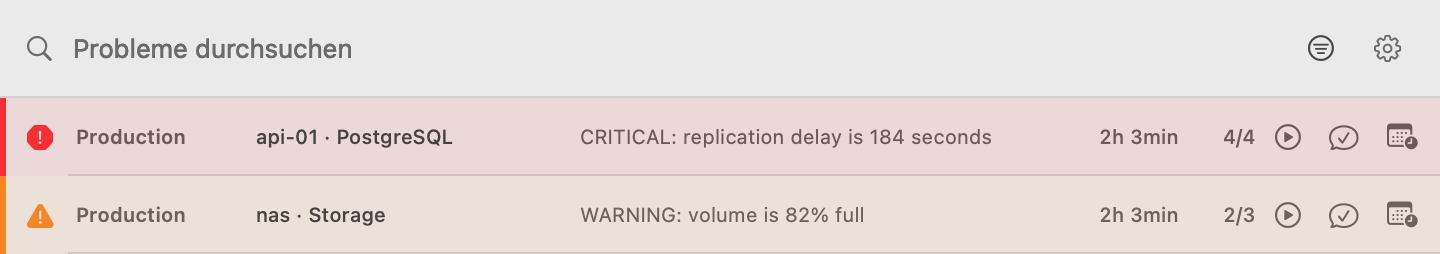
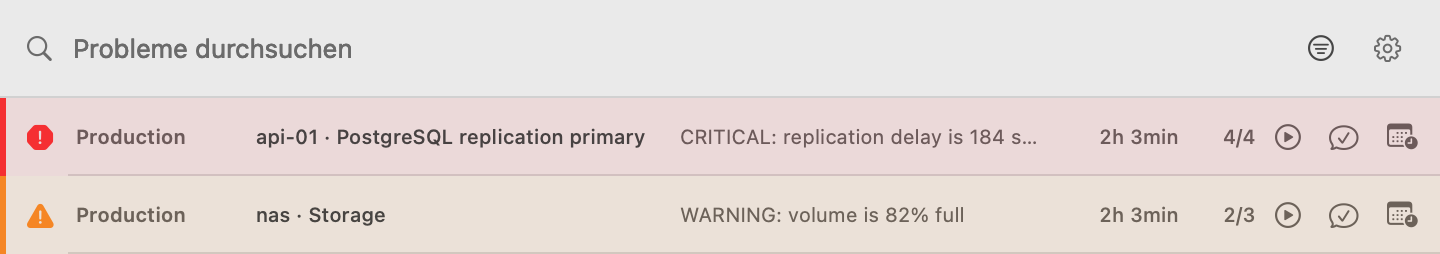
fix: refine SSH settings interactions

Changed region(s): [[0.3125, 0.4961, 0.7188, 0.5787], [0.4062, 0.7992, 0.6875, 0.8819]]

diff --git a/IssueLight/Sources/SourceSetupView.swift b/IssueLight/Sources/SourceSetupView.swift
@@ -287,22 +287,32 @@ struct SourceSetupView: View {
                         Text("Web-URL")
                     }
 
-                    DisclosureGroup("SSH", isExpanded: $isShowingSSHOverrides) {
+                    SSHSettingsDisclosureRow(isExpanded: $isShowingSSHOverrides)
+                    if isShowingSSHOverrides {
                         TextField(
                             "Bastion",
                             text: $model.sshTunnelHost,
                             prompt: Text(verbatim: automaticSSHHost)
                         )
-                        TextField("Benutzername", text: $model.sshTunnelUsername)
+                        TextField(
+                            "Benutzername",
+                            text: $model.sshTunnelUsername,
+                            prompt: Text(verbatim: "OpenSSH")
+                        )
                             .textContentType(.username)
                         TextField("SSH-Port", text: $model.sshTunnelPort, prompt: Text(verbatim: "22"))
                         TextField(
                             "Bevorzugter lokaler Port",
-                            text: $model.sshTunnelPreferredLocalPort
+                            text: $model.sshTunnelPreferredLocalPort,
+                            prompt: Text(verbatim: "macOS")
                         )
                         LabeledContent("SSH-Schlüssel") {
                             HStack(spacing: 8) {
-                                if !model.sshTunnelIdentityFilePath.isEmpty {
+                                if model.sshTunnelIdentityFilePath.isEmpty {
+                                    Text(verbatim: "~/.ssh/config / SSH agent")
+                                        .foregroundStyle(.tertiary)
+                                        .lineLimit(1)
+                                } else {
                                     Text(URL(fileURLWithPath: model.sshTunnelIdentityFilePath).lastPathComponent)
                                         .foregroundStyle(.secondary)
                                         .lineLimit(1)
@@ -330,18 +340,22 @@ struct SourceSetupView: View {
                         }
                     }
 
-                    Toggle("Host im Terminal öffnen", isOn: $model.sshActionEnabled)
+                    Toggle("SSH für überwachten Host", isOn: $model.sshActionEnabled)
                     if model.sshActionEnabled {
-                        TextField("SSH-Benutzername", text: $model.sshUsername)
+                        TextField(
+                            "SSH-Benutzername",
+                            text: $model.sshUsername,
+                            prompt: Text(verbatim: "OpenSSH")
+                        )
                             .textContentType(.username)
-                        TextField("SSH-Port", value: $model.sshPort, format: .number)
+                        PortNumberField("SSH-Port", value: $model.sshPort)
                     }
 
-                    Toggle("Host über RDP öffnen", isOn: $model.rdpActionEnabled)
+                    Toggle("RDP für überwachten Host", isOn: $model.rdpActionEnabled)
                     if model.rdpActionEnabled {
                         TextField("RDP-Benutzername", text: $model.rdpUsername)
                             .textContentType(.username)
-                        TextField("RDP-Port", value: $model.rdpPort, format: .number)
+                        PortNumberField("RDP-Port", value: $model.rdpPort)
                     }
                 } header: {
                     Text("Navigation & Fernzugriff")
@@ -570,6 +584,51 @@ private struct SourceRow: View {
         case .failed(let message):
             return AppLocalization.string("Aktualisierung fehlgeschlagen, \(message)", locale: locale)
         }
+    }
+}
+
+struct SSHSettingsDisclosureRow: View {
+    @Binding var isExpanded: Bool
+
+    var body: some View {
+        Button {
+            isExpanded.toggle()
+        } label: {
+            HStack(spacing: 7) {
+                Image(systemName: "chevron.right")
+                    .font(.caption.weight(.semibold))
+                    .rotationEffect(.degrees(isExpanded ? 90 : 0))
+                    .accessibilityHidden(true)
+                Text(verbatim: "SSH")
+                Spacer()
+                Text(verbatim: "API · Web")
+                    .foregroundStyle(.secondary)
+            }
+            .frame(maxWidth: .infinity, minHeight: 28, alignment: .leading)
+            .contentShape(Rectangle())
+        }
+        .buttonStyle(.plain)
+        .accessibilityLabel(Text(verbatim: "SSH, API, Web"))
+        .accessibilityAddTraits(isExpanded ? .isSelected : [])
+        .accessibilityIdentifier("ssh-settings-disclosure")
+    }
+}
+
+struct PortNumberField: View {
+    static var format: IntegerFormatStyle<Int> {
+        .number.grouping(.never)
+    }
+
+    let title: LocalizedStringKey
+    @Binding var value: Int
+
+    init(_ title: LocalizedStringKey, value: Binding<Int>) {
+        self.title = title
+        _value = value
+    }
+
+    var body: some View {
+        TextField(title, value: $value, format: Self.format)
     }
 }
 

diff --git a/IssueLight/Tests/StatusMenuInteractionTests.swift b/IssueLight/Tests/StatusMenuInteractionTests.swift
@@ -4,6 +4,37 @@ import XCTest
 
 @MainActor
 final class StatusMenuInteractionTests: XCTestCase {
+    func testSSHSettingsDisclosureRespondsAcrossTheEntireRow() {
+        var isExpanded = false
+        let view = SSHSettingsDisclosureRow(
+            isExpanded: Binding(
+                get: { isExpanded },
+                set: { isExpanded = $0 }
+            )
+        )
+        .environment(\.locale, Locale(identifier: "de_DE"))
+        .environment(\.colorScheme, .light)
+
+        NativeViewRenderer.click(
+            CGPoint(x: 496, y: 14),
+            in: view,
+            size: CGSize(width: 500, height: 28)
+        )
+
+        XCTAssertTrue(isExpanded)
+    }
+
+    func testPortNumberFormatNeverAddsLocaleGrouping() {
+        XCTAssertEqual(
+            PortNumberField.format.locale(Locale(identifier: "de_DE")).format(3_389),
+            "3389"
+        )
+        XCTAssertEqual(
+            PortNumberField.format.locale(Locale(identifier: "sv_SE")).format(22_222),
+            "22222"
+        )
+    }
+
     func testSettingsButtonRespondsToPointerClick() {
         var openedSettings = false
         let view = StatusMenuContent(

diff --git a/IssueLight/Tests/LandingPageScreenshotTests.swift b/IssueLight/Tests/LandingPageScreenshotTests.swift
@@ -81,10 +81,6 @@ final class LandingPageScreenshotTests: XCTestCase {
             to: outputDirectory.appendingPathComponent("menu-panel-ar.png"),
             options: .atomic
         )
-        try sourceFailureMenuData.write(
-            to: outputDirectory.appendingPathComponent("menu-panel-source-failure.png"),
-            options: .atomic
-        )
         try swedishSettingsData.write(
             to: outputDirectory.appendingPathComponent("language-settings-sv.png"),
             options: .atomic
@@ -173,8 +169,8 @@ final class LandingPageScreenshotTests: XCTestCase {
                 sourceID: productionID,
                 id: "api-database",
                 host: "api-01",
-                service: "PostgreSQL",
-                name: "PostgreSQL",
+                service: "PostgreSQL replication primary",
+                name: "PostgreSQL replication primary",
                 severity: .critical,
                 summary: "CRITICAL: replication delay is 184 seconds"
             ),

diff --git a/IssueLight/Sources/StatusMenuView.swift b/IssueLight/Sources/StatusMenuView.swift
@@ -731,7 +731,7 @@ private struct StatusPanelIssueRow: View {
             Text(verbatim: title)
                 .font(.caption.weight(.medium))
                 .lineLimit(1)
-                .frame(width: 154, alignment: .leading)
+                .frame(width: 204, alignment: .leading)
             Text(verbatim: issue.summary)
                 .font(.caption)
                 .foregroundStyle(.secondary)
